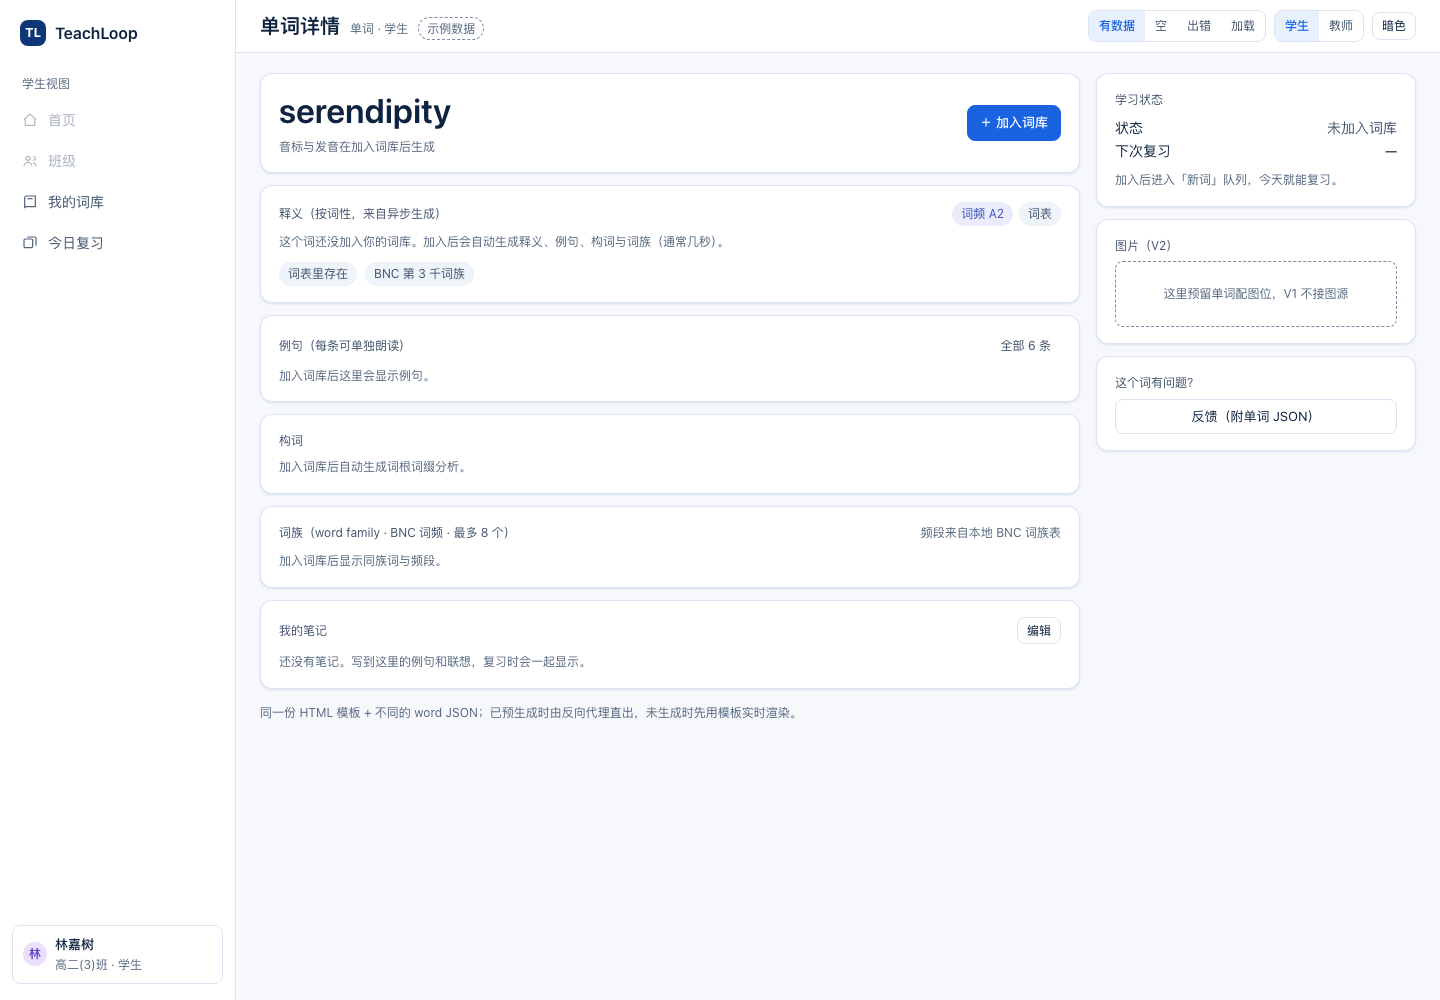
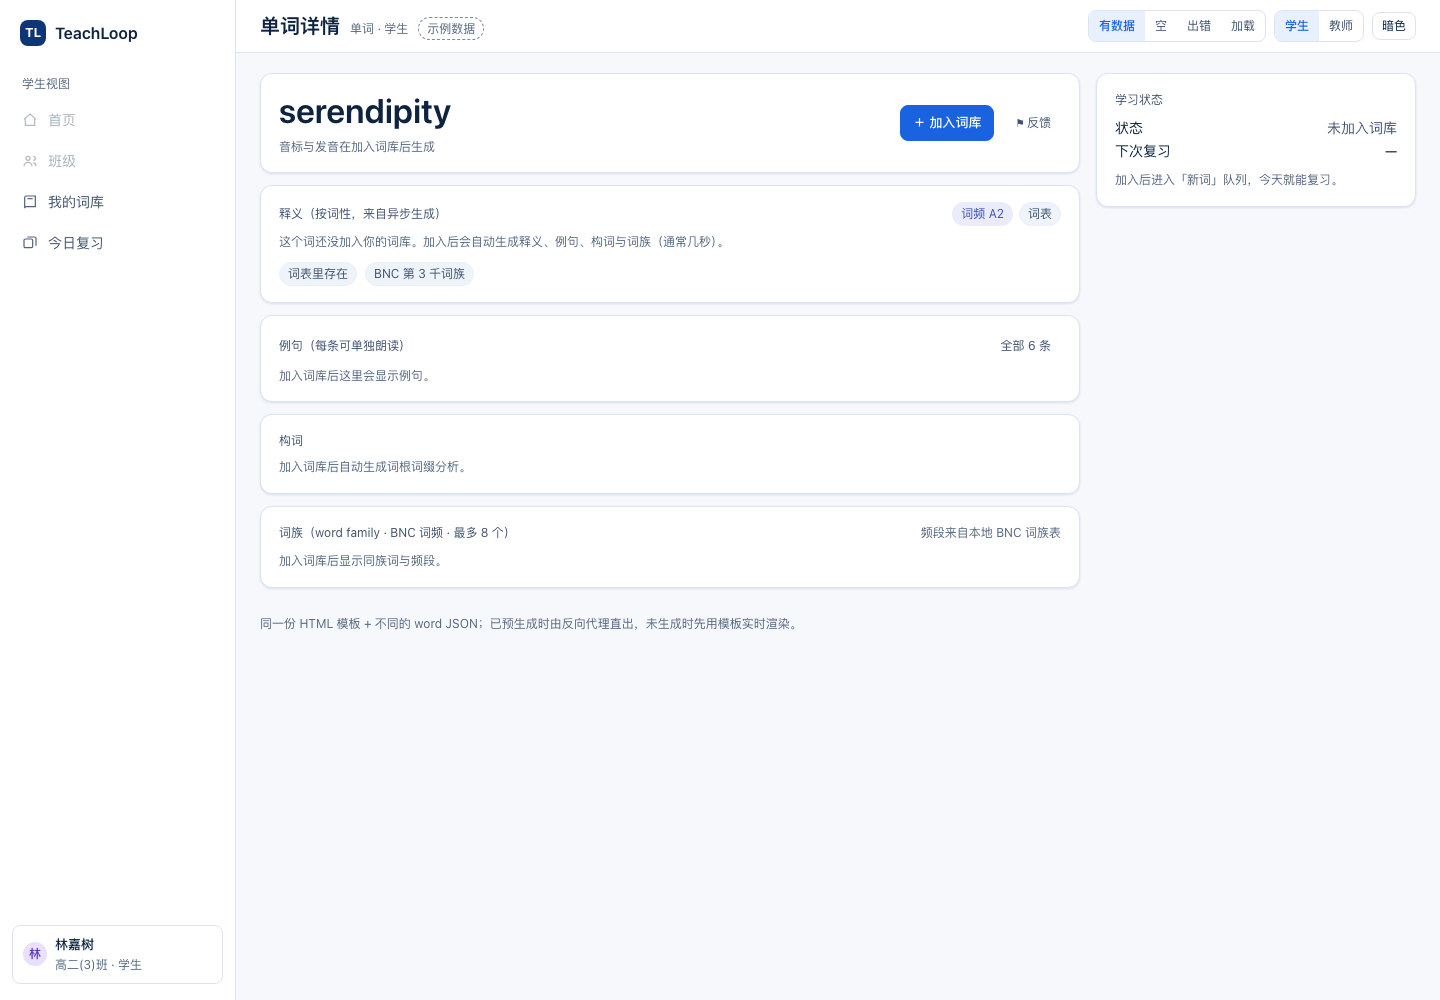
docs(vocab): 详情页收敛版面——去掉图片占位与笔记，反馈改成右上角小按钮
用户反馈：详情页右侧占位太多，页面空间珍贵。

- 图片（V2）占位卡从详情页移除，V1 不显示任何占位
- 个人笔记 V1 不做：字段、导入映射、详情、复习背面全部去掉（§9 非目标）
- 反馈按钮从右侧卡片改为单词右上角的小按钮，与收藏/暂停同区
- 反馈提交只带 word id（服务端按 id 取快照），不再要求整份 JSON
- 右侧栏只剩「学习状态」一张小卡

spec：AC-46.2/46.3/48.2/53.1/54.4/57.6/60.1/60.4、FR-092、隐私与 §9 同步；新增 §22 版面收敛记录。

diff --git a/docs/mock/vocab-2026-10-23/index.html b/docs/mock/vocab-2026-10-23/index.html
@@ -691,6 +691,7 @@ function screenDetail(){
             ${isNewWord?`<button class="btn primary" onclick="addFromDetail()">＋ 加入词库</button>`:`
               <button class="fav ${isFav?'on':''}" onclick="toggleFav('${w.w}')">${isFav?'★ 已收藏':'☆ 收藏'}</button>
               <button class="btn" onclick="S.known.includes('${w.w}')?unmarkKnown('${w.w}'):markKnown('${w.w}')">${S.known.includes('${w.w}')?'恢复复习':'暂停复习'}</button>`}
+            <button class="btn ghost sm" title="反馈这个词的问题（带上词 id）" onclick="toast('反馈已提交（附带 word id，可追溯详情）')">⚑ 反馈</button>
           </div>
         </div>
       </div>
@@ -740,11 +741,7 @@ function screenDetail(){
         </div>`}
       </div>
 
-      <div class="card card-pad">
-        <div class="between" style="margin-bottom:8px">
-          <div class="sm muted">我的笔记</div><button class="btn sm">编辑</button></div>
-        <div class="sm muted-2">${w.note || '还没有笔记。写到这里的例句和联想，复习时会一起显示。'}</div>
-      </div>
+
     </div>
 
     <aside>
@@ -758,14 +755,8 @@ function screenDetail(){
         <div class="between"><span>易度</span><span class="mono">2.50</span></div>
         <div class="between"><span>间隔</span><span class="mono">12 天</span></div>`}
       </div>
-      <div class="card card-pad" style="margin-bottom:12px">
-        <div class="sm muted" style="margin-bottom:6px">图片（V2）</div>
-        <div class="preview-mini sm muted-2" style="text-align:center;padding:22px">这里预留单词配图位，V1 不接图源</div>
-      </div>
-      <div class="card card-pad">
-        <div class="sm muted" style="margin-bottom:6px">这个词有问题？</div>
-        <button class="btn" style="width:100%" onclick="toast('已带上该词的 JSON 提交反馈')">反馈（附单词 JSON）</button>
-      </div>
+
+
     </aside>
   </div>
   <div class="foot-note">同一份 HTML 模板 + 不同的 word JSON；已预生成时由反向代理直出，未生成时先用模板实时渲染。</div>`;
@@ -825,7 +816,7 @@ function screenReview(){
         <div class="def">${w.def}</div>
         ${w.ex.map(e=>`<div class="ex">· ${e}</div>`).join('')}
         <div class="sm" style="margin-top:10px;color:var(--muted)">构词：${w.an}</div>
-        ${w.note?`<div class="sm" style="margin-top:6px;color:var(--muted)">我的笔记：${w.note}</div>`:''}
+
         <div class="sm" style="margin-top:10px"><span class="chip ${w.srcType}">${w.src}</span></div>
       </div>
     </div>`;

diff --git a/specs/004-vocab/spec.md b/specs/004-vocab/spec.md
@@ -29,7 +29,7 @@
 
 | 角色 | 能做 | 不能做 |
 | :--- | :--- | :--- |
-| **学生** | 维护自己的词库（加词、导入、改个人笔记与标签）、建少量卡组视图、领取班级生词、按队列复习并评分 | 看他人词库；改教师词集的词条内容；看未发给自己的词集 |
+| **学生** | 维护自己的词库（加词、导入、改标签）、建少量卡组视图、领取班级生词、按队列复习并评分 | 看他人词库；改教师词集的词条内容；看未发给自己的词集 |
 | **教师** | 建/改/删自己的词集、把词集发给自己带的班（可设截止时间）、重复发同一词集 | 看学生词库与背诵明细（本期）；发给自己不带的班 |
 | **管理员** | 沿用现有能力（不新增） | — |
 
@@ -42,8 +42,8 @@
 > 学生要能把词加进来，并且**一个词只有一条**，不管它从哪儿来。
 
 - [ ] AC-46.1 学生侧有一级导航入口，进「我的词库」；空库显示空态并给两个入口（手动加词、批量导入）。**空态时「班级发来的生词」横幅仍然显示**——新用户第一眼靠它找到内容入口。
-- [ ] AC-46.2 手动加词表单：正面必填（≤64 字符）、释义必填；发音、例句（可多条）、构词分析、笔记、标签（多个）可选；保存后立即出现在列表首行，无需刷新。
-- [ ] AC-46.3 添加一个规范化后已存在的词（规范化见 FR-093）时不新建词条：提示「已在词库（来源：X）」，仅更新个人层（笔记/标签/收藏）。
+- [ ] AC-46.2 手动加词表单：正面必填（≤64 字符）、释义必填；发音、例句（可多条）、构词分析、标签（多个）可选；保存后立即出现在列表首行，无需刷新。**个人笔记 V1 不做**（见 §9）。
+- [ ] AC-46.3 添加一个规范化后已存在的词（规范化见 FR-093）时不新建词条：提示「已在词库（来源：X）」，仅更新个人层（标签/收藏）。
 - [ ] AC-46.4 列表支持：搜索（正面/释义）、按来源筛选（全部 / 某次布置 / 某次导入 / 自己添加）、按卡组视图筛选、分页（20/50/100）。**搜索框固定在列表上方、滚动时始终可见（sticky）**，并承担两个语义：
   - 输入时：实时筛选「我的词库」；
   - 按 **Enter**：打开该词的详情页（在库的词进自己的详情；**不在库的词直接查本地词表**并进详情，详情页给「加入词库」）。
@@ -63,7 +63,7 @@
 ### US-48 批量导入单词
 
 - [ ] AC-48.1 支持 `.csv` / `.md` / `.txt`（**三种必须支持**），`.xlsx` 为可选；单文件 ≤20MB；提交前先出**预览**：总行数、前 20 条、预计「新建 / 重复跳过 / 会失败」三个数。**纯词表（只有单词、没有释义）可以导**，不当作失败。
-- [ ] AC-48.2 字段映射：有表头时才做列映射（正面必填映射，释义可选映射）；发音、例句、构词分析、笔记、标签、卡组名可选；匹配不到时在预览页手动选列。**无表头的纯词表**跳过映射，直接按 FR-108 的切分规则解析。**「批量导入文件」与「粘贴文本加词」是同一个动作的两种输入**：都只做「把词加进词表」，提交后走同一条异步生成管线，结果一致。
+- [ ] AC-48.2 字段映射：有表头时才做列映射（正面必填映射，释义可选映射）；发音、例句、构词分析、标签、卡组名可选；匹配不到时在预览页手动选列。**无表头的纯词表**跳过映射，直接按 FR-108 的切分规则解析。**「批量导入文件」与「粘贴文本加词」是同一个动作的两种输入**：都只做「把词加进词表」，提交后走同一条异步生成管线，结果一致。
 - [ ] AC-48.3 **导入/加词只负责入库，内容异步生成**：提交后立刻能看到这些词（词形、来源、语言），释义/例句/构词/词族由后台异步生成；**已存在的词不重复生成**；生成中、生成成功、生成失败三种状态在列表可见；失败可单条或批量重试。
 - [ ] AC-48.4 入库即可进入调度：新词当天进队列；若内容尚未生成完，卡片显示「内容生成中」并允许跳过，**不阻塞**；超过 24 小时仍失败则标「内容缺失」、移出队列并在词库提醒。
 - [ ] AC-48.5 **格式清洗自动执行且可追溯**：去首尾/连续空格、全角逗号分号、BOM、引号、行首序号与项目符号、混入的音标或词性标注；每类改动在预览里逐条列出「第 N 行：去掉了 X」（不静默）。
@@ -119,10 +119,10 @@
 
 ### US-53 四级评分与间隔调度
 
-- [ ] AC-53.1 复习页正面显示单词与发音；翻面（点击卡片或空格）后显示释义、例句、构词分析、个人笔记。
+- [ ] AC-53.1 复习页正面显示单词与发音；翻面（点击卡片或空格）后显示释义、例句、构词分析。
 - [ ] AC-53.2 只有**两个**评分按钮：**不认识 / 认识**，每个都显示下次间隔（如「5 分钟后再来」「1 天后再来」）；键盘 `1` / `2` 等价。按钮**任何时候都可点**（不必先翻面）。
   - 点「**认识**」→ 记录「良好」并**立即进入下一个词**；
-  - 点「**不认识**」→ 记录「忘记」并**自动把卡片翻面**（展示释义、例句、构词、笔记），**停在当前词**，由用户看完后点「下一个 →」继续；
+  - 点「**不认识**」→ 记录「忘记」并**自动把卡片翻面**（展示释义、例句、构词），**停在当前词**，由用户看完后点「下一个 →」继续；
   - 同一张卡**只能评一次**：评过之后两个按钮置灰，直到切到下一张；
   - 点击卡片本身是「手动翻面」，只展示内容、不产生评分。
 - [ ] AC-53.3 每次评分写入一条复习日志（词条、评分、时间、可选耗时）；「认识」评分后立即进入下一张，「不认识」评分后翻面停留。
@@ -136,7 +136,7 @@
 - [ ] AC-54.1 学生只能看到自己的词库、卡组视图、复习记录；访问他人资源返回 404。
 - [ ] AC-54.2 教师只能看到自己创建的词集与自己发出的布置。
 - [ ] AC-54.3 本期不向教师返回任何学生背诵明细（接口层面不返回，不是前端隐藏）。
-- [ ] AC-54.4 审计与运行日志不写词条正文、释义、例句与个人笔记（宪法第七条）。
+- [ ] AC-54.4 审计与运行日志不写词条正文、释义、例句（宪法第七条）。
 
 ### US-55 删除、保留与恢复
 
@@ -159,7 +159,7 @@
 - [ ] AC-57.3 提供商可替换：`tts.provider` 支持 `local`（默认）/ `cloud` / `browser`。回落链固定为 **缓存 → 本地引擎 → 浏览器语音**：本地引擎缺失或超过 2s 未返回时回落浏览器，并照常完成复习，不弹阻塞式错误。
 - [ ] AC-57.4 生成失败与回落都要留可观测痕迹（计数 + 审计），但不记录词条正文以外的用户数据。
 - [ ] AC-57.5 若启用 `cloud`：凭据走现有 `/admin/ai` 配置方式（加密存储、掩码回显），不在前端暴露。
-- [ ] AC-57.6 **只朗读单词本身**，不朗读释义、例句与笔记；例句朗读明确不在本期（§9）。
+- [ ] AC-57.6 **只朗读单词本身**，不朗读释义与例句；例句朗读明确不在本期（§9）。
 
 ### US-58 学习语言可扩展（不只英语）
 
@@ -190,14 +190,14 @@
 
 > 同一个单词的详情页长得一样，只是数据不同；所以它应该是一份模板 + 一份 JSON。
 
-- [ ] AC-60.1 详情页内容：单词与**英式/美式音标**（各带发音按钮）、释义（按词性分组）、例句（含中文翻译）、构词分析、**word family**（同族词，带词频标记）、笔记、来源标签。
+- [ ] AC-60.1 详情页内容：单词与**英式/美式音标**（各带发音按钮）、释义（按词性分组）、例句（含中文翻译）、构词分析、**word family**（同族词，带词频标记）、来源标签。**个人笔记 V1 不做**。
 - [ ] AC-60.2 右上角的动作随「是否在库」变化：
   - **不在库**：显示「＋ 加入词库」；点击后入库、进入「新词」队列（今天可复习），内容异步生成；
   - **在库**：显示 favourite 收藏开关 +「重新加入生词本」+「移出复习」。
   「重新加入生词本」对**任何在库的词**都可用（包括误点后想重来的），效果是重置为新词、日志保留；需二次确认。
 - [ ] AC-60.3 详情页的动作只有两个：**收藏** 与 **暂停 / 恢复**（与词库行内是同一动作）。暂停后不再安排复习、词仍在库可搜索、状态「已暂停」；恢复后回到新词、当天可复习、历史保留。**详情页不提供删除**，删除只在词库页（AC-59.11）。
 - [ ] AC-60.8 详情页**不提供撤销上一次评分**（2026-10-23 决定）；误点的官方路径是「搜索该词 → 详情 → 暂停 → 恢复」（进度归零、日志保留），在页面上要有文案说明这一点。
-- [ ] AC-60.4 页面提供 **feedback 入口**；提交时带上**当前单词的 JSON**（不是只带 word id），便于定位内容问题。
+- [ ] AC-60.4 详情页提供一个**小小的反馈按钮**（放在单词右上角，与收藏/暂停同区，默认低调）；提交时带上 **word id** 即可（服务端按 id 取当时的快照，不必把整份 JSON 塞进请求）。2026-10-23 修订：原「带整份 JSON」改为带 id，理由是有 id 就能查到详情。
 - [ ] AC-60.5 详情页是**模板 + JSON**：同一份 HTML 模板渲染不同单词，不允许每个词一个页面文件。
 - [ ] AC-60.6 页面内容允许**预生成为静态 HTML**（如 `word/{lang}/{word}.html`），存在时由反向代理直接返回；不存在时异步生成，**生成期间页面先用模板 + 实时 JSON 渲染**，不阻塞用户。是否存在由 Bloom filter 做前置判断（只用于「一定没有」的快速否定，最终以存储为准）。
 - [ ] AC-60.7 **词族数据本地优先**：命中本地词表（Paul Nation word family 表）时直接显示同族词与频段，按频次降序、排除当前词、最多 N 个（默认 8，可配置）；未命中的词由异步生成补上并回填，下次直接命中。命中时显示频段标签（如「BNC 第 3 千词族」），未命中时不编造频段。
@@ -218,7 +218,7 @@
 | 编号 | 需求 | 承接 |
 | :--- | :--- | :--- |
 | FR-091 | 学生个人词库：`(学生, 词条)` 唯一，复习进度全局唯一一份 | US-46, US-51 |
-| FR-092 | 词条字段：正面、释义必填；发音、例句（多条）、构词分析、笔记、标签（多个）可选；可带来源标记 | US-46, US-48 |
+| FR-092 | 词条字段：正面、释义必填；发音、例句（多条）、构词分析、标签（多个）可选；可带来源标记；个人笔记 V1 不做 | US-46, US-48 |
 | FR-093 | 词条规范化与去重：小写 + 去首尾空格 + 全角转半角；不做词形还原；重复时给出「已存在（来源 X）」反馈 | US-46, US-48 |
 | FR-094 | 卡组 = 保存的筛选条件（来源 / 标签 / 状态组合），不拥有卡片，不参与调度去重 | US-47 |
 | FR-095 | 批量导入：CSV / TXT / XLSX，字段映射、预览、行号级错误、编码兼容、1000 行内存安全 | US-48 |
@@ -289,7 +289,7 @@
 | :--- | :--- |
 | 性能 | 今日队列接口 p95 ≤200ms（单学生 1 万词规模）；评分提交 p95 ≤150ms；1000 行导入 ≤30s |
 | 并发 | 同一学生多标签页对同一张卡提交评分不双记（幂等标识）；同一词重复领取不产生重复行 |
-| 隐私 | 教师不可见学生背诵明细；日志与审计不含词条正文、释义、例句、笔记 |
+| 隐私 | 教师不可见学生背诵明细；日志与审计不含词条正文、释义、例句 |
 | 可观测 | 发词、领取、删词、批量导入写审计事件；导入失败条数进指标 |
 | 国际化 | 中英双语，键集强制对齐；后端错误走消息 key |
 | 模块边界 | vocab 只依赖 `shared / identity / classroom`；`paper / sitting / grading / report` 改动数为 0 |
@@ -335,7 +335,8 @@
 - FSRS 或自训练参数（留策略接缝）。
 - 学生之间分享词库、公开词集市场。
 - 人工上传音频（发音由 TTS 生成并缓存）。
-- **例句、释义、笔记的朗读**：V1 只朗读单词本身，避免 TTS 成本与断句质量问题。
+- **例句、释义的朗读**：V1 只朗读单词本身，避免 TTS 成本与断句质量问题。
+- **个人笔记（notes）**：每张卡的自由文本笔记 V1 不做，避免编辑态、富文本与跨端同步的复杂度；V2 再考虑。
 - 教师查看学生背诵明细、预习完成率。
 - 多语言学习（只做英语词 → 中文释义）。
 - 移动端原生应用。
@@ -564,3 +565,15 @@
 | **批量采纳** | 做，但要确认 | 顶部「全部采用建议」必须二次确认，并列出将被改写的词 |
 
 判断依据：词表外 ≠ 错误（`zyzzyva`、`ICBM`、`Polynesia` 都合法）；疑似拼错 ≈ 未命中但有编辑距离 ≤2 的候选。
+
+
+## 22. 详情页版面收敛（2026-10-23）
+
+用户意见：「页面空间很珍贵，图片占位和笔记都别占着」。处理：
+
+| 元素 | 处理 |
+| :--- | :--- |
+| 图片（V2 占位） | **从详情页移除**，V1 不显示任何占位卡；V2 做图时再进版面 |
+| 我的笔记 | **V1 不做**：字段、导入映射、详情展示、复习背面全部去掉（见 §9 非目标） |
+| 反馈按钮 | 从右侧卡片改为**单词右上角的小按钮**，与收藏/暂停同区；提交只带 word id |
+| 右侧栏 | 只保留「学习状态」一张小卡（状态/下次复习/易度/间隔） |

diff --git a/docs/mock/vocab-2026-10-23/README.md b/docs/mock/vocab-2026-10-23/README.md
@@ -4,6 +4,15 @@
 单文件、无依赖、无构建：**双击 `index.html` 就能点**。
 
 
+## 第十一版（详情页版面收敛）
+
+| 元素 | 处理 |
+| :--- | :--- |
+| 图片（V2 占位） | 从详情页删除，不再占位 |
+| 我的笔记 | V1 不做：字段、导入映射、详情与复习背面全部去掉 |
+| 反馈 | 从右侧卡片改成单词右上角的小按钮，提交只带 word id |
+| 右侧栏 | 只保留「学习状态」一张小卡 |
+
 ## 第十版（导入的清洗与拼写校验）
 
 导入预览现在有三态校验，并且**从不自动改词**：
